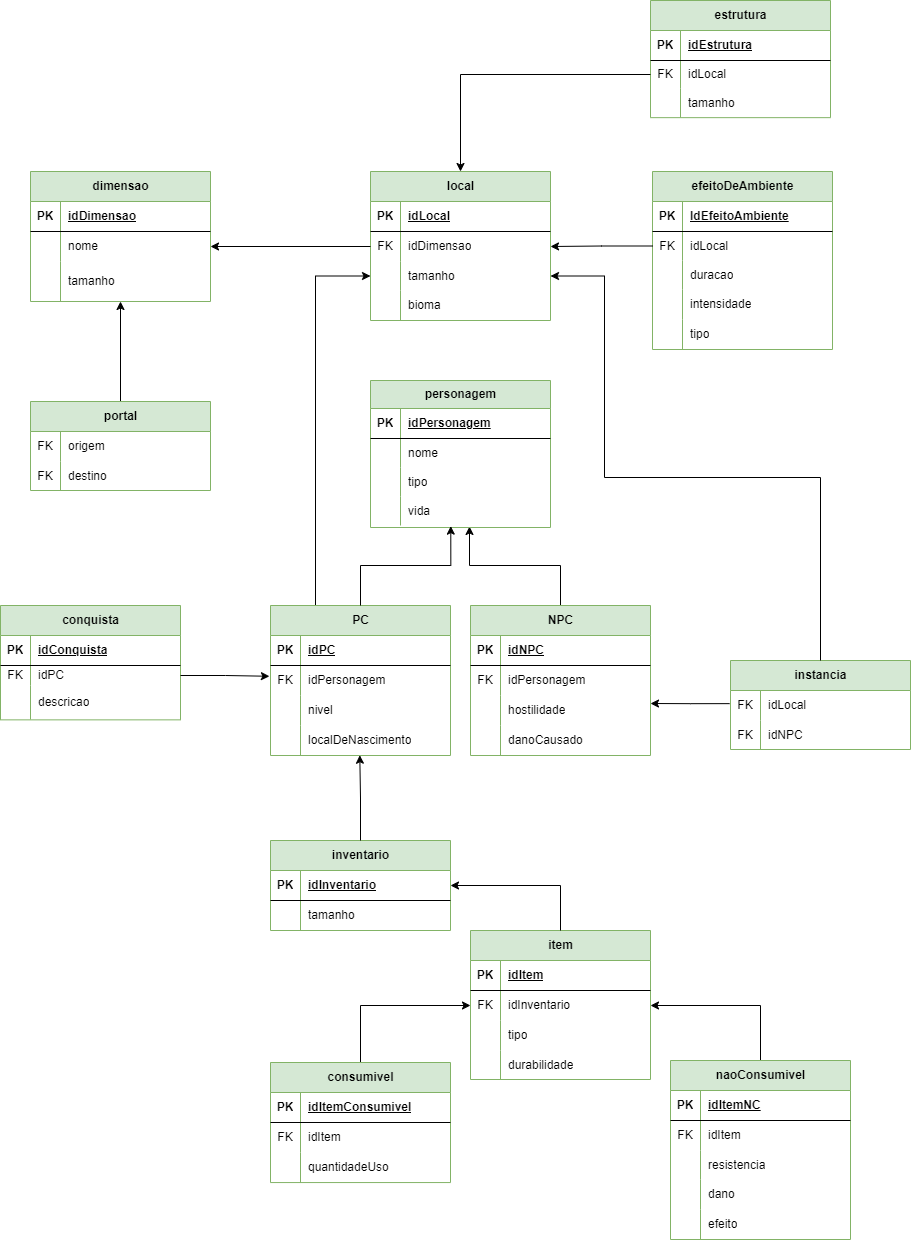
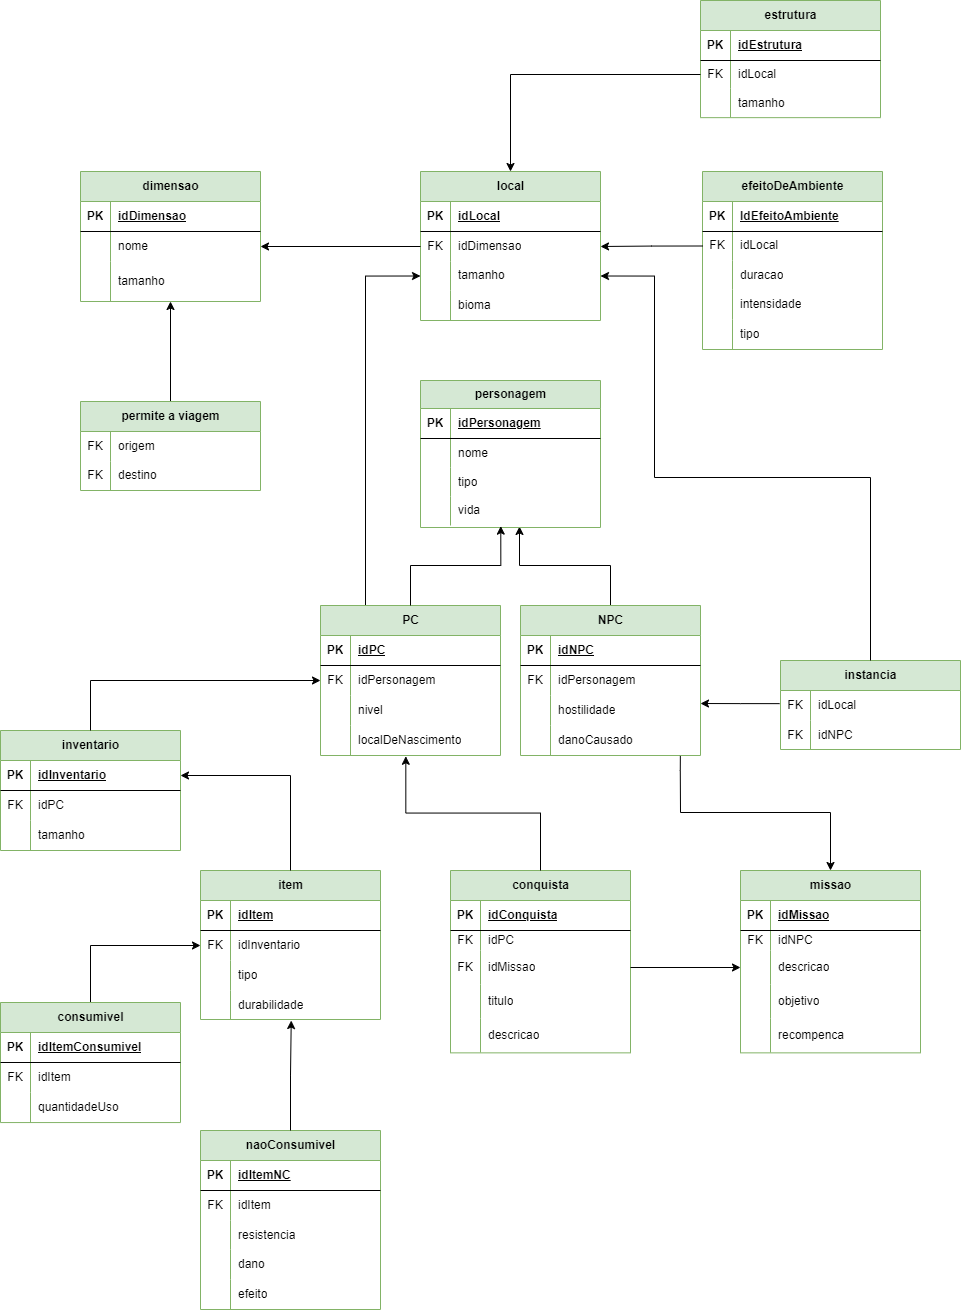
docs: Inclusão de Entidade

diff --git a/docs/DER_MER_Minecraft.md b/docs/DER_MER_Minecraft.md
@@ -13,6 +13,7 @@ São os objetos ou conceitos do mundo real presentes no sistema e representados 
     - **PC**
     - **NPC**
 - **Instância**
+- **Missão**
 - **Conquista**
 - **Inventário**
 - **Item**
@@ -30,7 +31,8 @@ São as características ou propriedades que descrevem as entidades.
     - **PC**: <u>idPC</u>, idPersonagem, nivel, localDeNascimento;
     - **NPC**: <u>idNPC</u>, idPersonagem, hostilidade, danoCausado;
 - **Instância**: idLocal, idNPC;
-- **Conquista**: <u>idConquista</u>, idPC, descricao;
+- **Missão**: <u>idMissao</u>, idNPC, descricao, objetivo, recompenca; 
+- **Conquista**: <u>idConquista</u>, idPC, idMissao, titulo, descricao;
 - **Inventário**: <u>idInventario</u>, idPC, tamanho;
 - **Item**: <u>idItem</u>, idInventario, tipo, durabilidade;
     - **Consumível**: <u>idItemConsumivel</u>, idItem, quantidadeUso;
@@ -62,6 +64,10 @@ Representam as associações entre entidades, descrevendo como elas estão conec
 
 - Item __possui exclusivamente__ tipos Consumível e Não consumível
 
+- PC __interage__ com NPC e __gera__ Missão 
+
+- Missão __gera__ conquista
+
 # Diagrama Entidade Relacionamento (DER)
 O Diagrama Entidade Relacionamento (DER) é a representação gráfica usada pelo Modelo Entidade Relacionamento para representar seus elementos, descrevendo a estrutura do banco de dados usando entidades, atributos e relacionamentos.
 
@@ -77,5 +83,6 @@ O Diagrama Entidade Relacionamento (DER) é a representação gráfica usada pel
 
 | Versão |  Data | Descrição | Autor |
 | :----: | :---: | --------- | ----- |
-| 1.0    | 24/09/2023 | Criação do DER | [Maria Alice](https://github.com/Maliz30) <br> [Mateus](https://github.com/MateusPy) <br> [Nicolas](https://github.com/NickGehjk) <br> [Victor Hugo](https://github.com/)  |
+| 1.0    | 24/09/2023 | Criação do DER | [Maria Alice](https://github.com/Maliz30) <br> [Mateus](https://github.com/MateusPy) <br> [Nicolas](https://github.com/NickGehjk) <br> [Victor Hugo](https://github.com/ViictorHugoo)  |
 | 1.1 | 25/09/2023 | Criação do ReadMe | [Maria Alice](https://github.com/Maliz30) <br> [Mateus](https://github.com/MateusPy)|
+| 1.2 | 01/09/2023 | Alterações no MER e DER | [Maria Alice](https://github.com/Maliz30) <br> [Victor Hugo](https://github.com/ViictorHugoo) 

diff --git a/docs/DD_Minecraft.md b/docs/DD_Minecraft.md
@@ -1,6 +1,6 @@
 # Dicionário de Dados (DD)
 
-<!-- Descrição -->
+O dicionário de dados oferece uma visão geral das principais entidades, atributos e terminologia utilizados neste projeto.
 
 ## Entidade: Dimensão
 
@@ -130,6 +130,22 @@
 |idNPC|	Chave estrangeira referenciando identificador do npc|	Int||		FK|		
 |idLocal|	Chave estrangeira referenciando identificador do local|	Int||		FK|
 
+<br><br>
+
+
+## Entidade: Missão		
+			
+#### Descrição: Armazena informações das Missões
+#### Observações: Essa tabela possui chave estrangeira da tabela NPC		
+
+<!-- Tabela-->
+| Nome     | Descrição | Tipo de Dado | Tamanho | Restrições de Domínio |
+|:--------:|:---------:|:------------:|:-------:|:---------------------:|
+|idMissao|	identificador de missão|	Int|	|	PK|
+idNPC|	chave estrangeira referenciando identificador de NPC|	Int| |		FK|			
+|descrição|	descrição da missão|	VarChar|	100|	NotNull|
+|objetivo|	objetivo da missão|	VarChar|	30|	NotNull|
+|recompensa|	recompensa da missão (item e/ou conquista)|||			NotNull|
 
 <br><br>
 
@@ -143,7 +159,9 @@
 | Nome     | Descrição | Tipo de Dado | Tamanho | Restrições de Domínio |
 |:--------:|:---------:|:------------:|:-------:|:---------------------:|
 |idConquista|	Identificador da conquista|	Int||		PK|
+|idMissao| Identificador de missão | Int || FK |
 |idPC|	Chave estrangeira referenciando identificador do personagem jogável|	Int||		FK|
+|titulo|	Nome identificador da conquista|	VarChar|	50|	Not Null|
 |descricao|	Descrição da conquista|	VarChar|	50|	Not Null|
 
 
@@ -210,3 +228,9 @@
 |resistencia|	Resistência do item não consumível|	Int||		Check|
 |dano|	Dano do item não consumível|	Int||		Check|
 |efeito|	Efeito do item não consumível|	VarChar|	20|	Not Null|	
+
+| Versão |  Data | Descrição | Autor |
+| :----: | :---: | --------- | ----- |
+| 1.0    | 24/09/2023 | Criação do Dicionario de Dados | [Nicolas](https://github.com/NickGehjk) |
+| 1.1 | 25/09/2023 | Adição do Dicionário no ReadMe | [Victor Hugo](https://github.com/ViictorHugoo) |
+| 1.2 | 01/10/2023 | Alterações no Dicionário de Dados | [Maria Alice](https://github.com/Maliz30) <br> [Victor Hugo](https://github.com/ViictorHugoo) 

diff --git a/docs/MREL_Minecraft.md b/docs/MREL_Minecraft.md
@@ -8,3 +8,9 @@ O Modelo Relacional (MRel) é um modelo lógico que descreve o banco de dados, o
     <img src='./imagens/modeloEntidadeRelacionamento.png'>
     <p>Fonte: Autores</p>
 </div>
+
+| Versão |  Data | Descrição | Autor |
+| :----: | :---: | --------- | ----- |
+| 1.0    | 24/09/2023 | Criação do MREL | [Maria Alice](https://github.com/Maliz30) <br> [Mateus](https://github.com/MateusPy) <br> [Nicolas](https://github.com/NickGehjk) <br> [Victor Hugo](https://github.com/ViictorHugoo)  |
+| 1.1 | 25/09/2023 | Criação do ReadMe | [Maria Alice](https://github.com/Maliz30) |
+| 1.2 | 01/10/2023 | Alterações no MREL | [Maria Alice](https://github.com/Maliz30) <br> [Victor Hugo](https://github.com/ViictorHugoo) 
